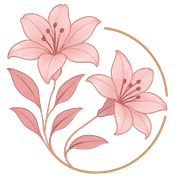
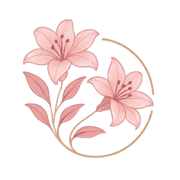
Add lotus poster image to the site assets

diff --git a/js/main.js b/js/main.js
@@ -78,7 +78,8 @@ function switchLanguage(lang) {
   // Re-render content based on current page
   const currentPage = getCurrentPage();
   if (currentPage === 'collection' && allItems.length > 0) {
-    const category = document.querySelector('.filter-btn.active')?.dataset.category || 'all';
+    const urlParams = new URLSearchParams(window.location.search);
+    const category = urlParams.get('category') || 'all';
     const filteredItems = category === 'all' ? allItems : allItems.filter(item => item.category === category);
     renderCollection(document.getElementById('collection-items'), filteredItems);
   } else if (currentPage === 'item' && allItems.length > 0) {
@@ -89,13 +90,14 @@ function switchLanguage(lang) {
     if (item) {
       renderItemDetail(item);
     }
-  } else if (currentPage === 'index' && allItems.length > 0) {
-    // Re-render featured items on home page
-    const featuredContainer = document.getElementById('featured-items');
-    if (featuredContainer) {
-      renderFeaturedItems(featuredContainer);
-    }
   }
+  // else if (currentPage === 'index' && allItems.length > 0) {
+  //   // Re-render featured items on home page
+  //   const featuredContainer = document.getElementById('featured-items');
+  //   if (featuredContainer) {
+  //     renderFeaturedItems(featuredContainer);
+  //   }
+  // }
 }
 
 function updateActiveLangButton() {
@@ -197,16 +199,16 @@ async function loadItems() {
 
 // Initialize home page
 function initHomePage() {
-  const featuredContainer = document.getElementById('featured-items');
-  if (featuredContainer && allItems.length > 0) {
-    renderFeaturedItems(featuredContainer);
-  }
+  // const featuredContainer = document.getElementById('featured-items');
+  // if (featuredContainer && allItems.length > 0) {
+  //   renderFeaturedItems(featuredContainer);
+  // }
 }
 
 // Render featured items on home page
 function renderFeaturedItems(container) {
   const featuredItems = allItems.filter(item => item.featured);
-  const itemsToShow = featuredItems.slice(0, 3);
+  const itemsToShow = featuredItems.slice(0, 1);
   
   container.innerHTML = itemsToShow.map(item => createProductCard(item)).join('');
   
@@ -220,12 +222,22 @@ function renderFeaturedItems(container) {
 // Initialize collection page
 function initCollectionPage() {
   const collectionContainer = document.getElementById('collection-items');
+  
+  // Get category from URL parameter
+  const urlParams = new URLSearchParams(window.location.search);
+  const categoryParam = urlParams.get('category') || 'all';
+  
   if (collectionContainer && allItems.length > 0) {
-    renderCollection(collectionContainer, allItems);
+    // Filter items based on URL parameter
+    const filteredItems = categoryParam === 'all' 
+      ? allItems 
+      : allItems.filter(item => item.category === categoryParam);
+    
+    renderCollection(collectionContainer, filteredItems);
   }
   
   // Initialize category filter if it exists
-  initCategoryFilter();
+  initCategoryFilter(categoryParam);
 }
 
 // Render collection
@@ -286,11 +298,20 @@ function addProductCardHandlers(container) {
 }
 
 // Initialize category filter
-function initCategoryFilter() {
+function initCategoryFilter(initialCategory = 'all') {
   const filterBtns = document.querySelectorAll('.filter-btn');
   const collectionContainer = document.getElementById('collection-items');
   
   if (filterBtns.length === 0) return;
+  
+  // Set active button based on URL parameter
+  filterBtns.forEach(btn => {
+    if (btn.dataset.category === initialCategory) {
+      btn.classList.add('active');
+    } else {
+      btn.classList.remove('active');
+    }
+  });
   
   filterBtns.forEach(btn => {
     btn.addEventListener('click', function() {
@@ -303,6 +324,15 @@ function initCategoryFilter() {
       const filteredItems = category === 'all' 
         ? allItems 
         : allItems.filter(item => item.category === category);
+      
+      // Update URL parameter
+      const url = new URL(window.location);
+      if (category === 'all') {
+        url.searchParams.delete('category');
+      } else {
+        url.searchParams.set('category', category);
+      }
+      window.history.pushState({}, '', url);
       
       renderCollection(collectionContainer, filteredItems);
     });

diff --git a/index.html b/index.html
@@ -53,15 +53,14 @@
         <p class="section-subtitle" data-translate="home.featured_subtitle"></p>
       </div>
       
-      <div class="product-grid" id="featured-items">
-        <!-- Featured items will be dynamically loaded here -->
+      <!-- <div class="product-grid" id="featured-items">
         <div class="text-center" style="grid-column: 1 / -1;">
           <p>Loading featured items...</p>
         </div>
-      </div>
+      </div> -->
       
       <div class="text-center mt-3">
-        <a href="collection.html" class="btn btn-secondary" data-translate="home.cta_button"></a>
+        <a href="collection.html?category=category1" class="btn btn-secondary" data-translate="home.cta_button"></a>
       </div>
     </div>
   </section>
@@ -76,10 +75,7 @@
           <a href="about.html" class="btn btn-secondary" data-translate="home.about_cta"></a>
         </div>
         <div class="about-image">
-          <!-- Placeholder for about image -->
-          <div class="product-image-placeholder" style="width: 100%; height: 100%; display: flex; align-items: center; justify-content: center; font-size: 4rem; background-color: #f5f5f5; color: #ccc;">
-            ♦
-          </div>
+          <img src="images/site/lotus_poster.jpg" alt="Lilyhouse Jewelry">
         </div>
       </div>
     </div>
@@ -88,9 +84,8 @@
   <!-- Social Section -->
   <section>
     <div class="container text-center">
-      <h2>Follow Our Journey</h2>
-      <p class="section-subtitle mb-2">
-        See our latest creations and behind-the-scenes moments
+      <h2 data-translate="home.social_title"></h2>
+      <p class="section-subtitle mb-2" data-translate="home.social_subtitle">
       </p>
       <div class="social-links">
         <a href="https://www.instagram.com/lillyhouse_lv" target="_blank" rel="noopener" class="social-link" aria-label="Instagram">
